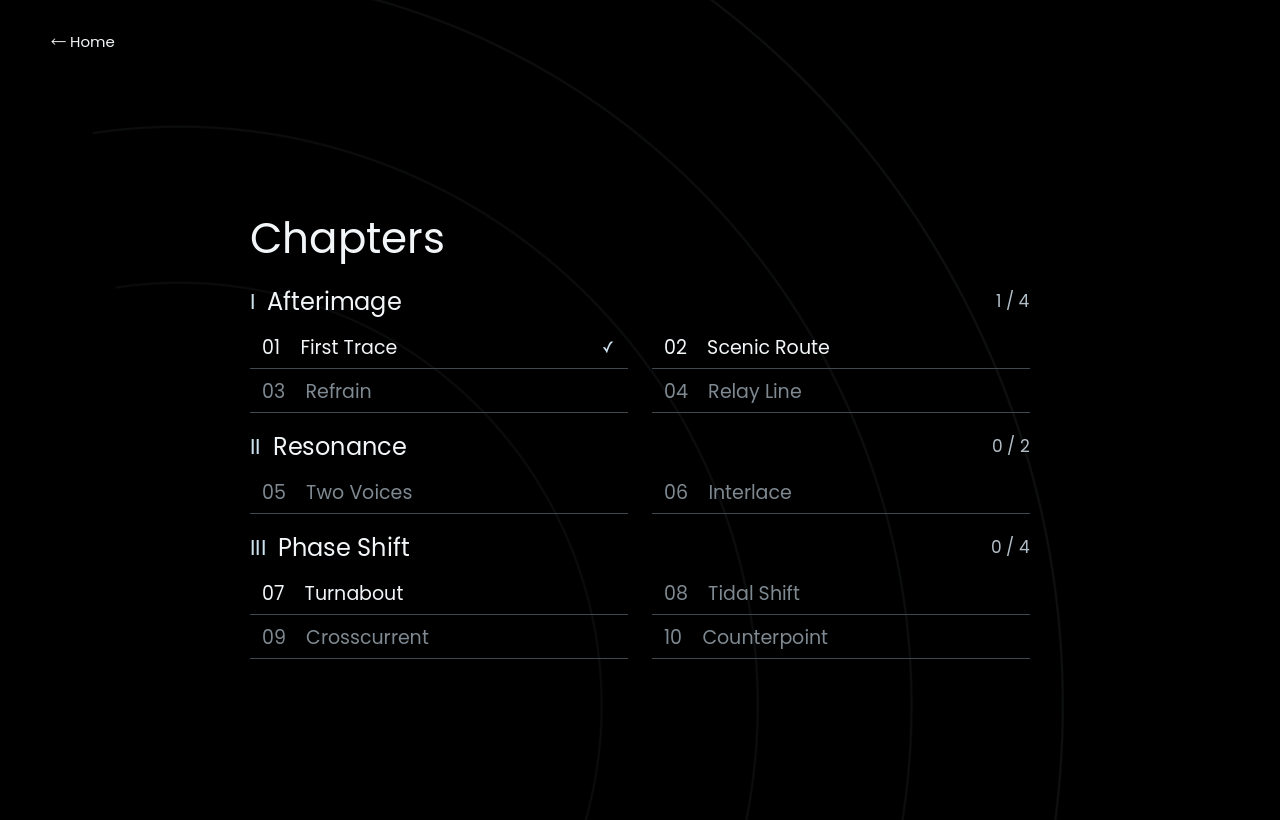
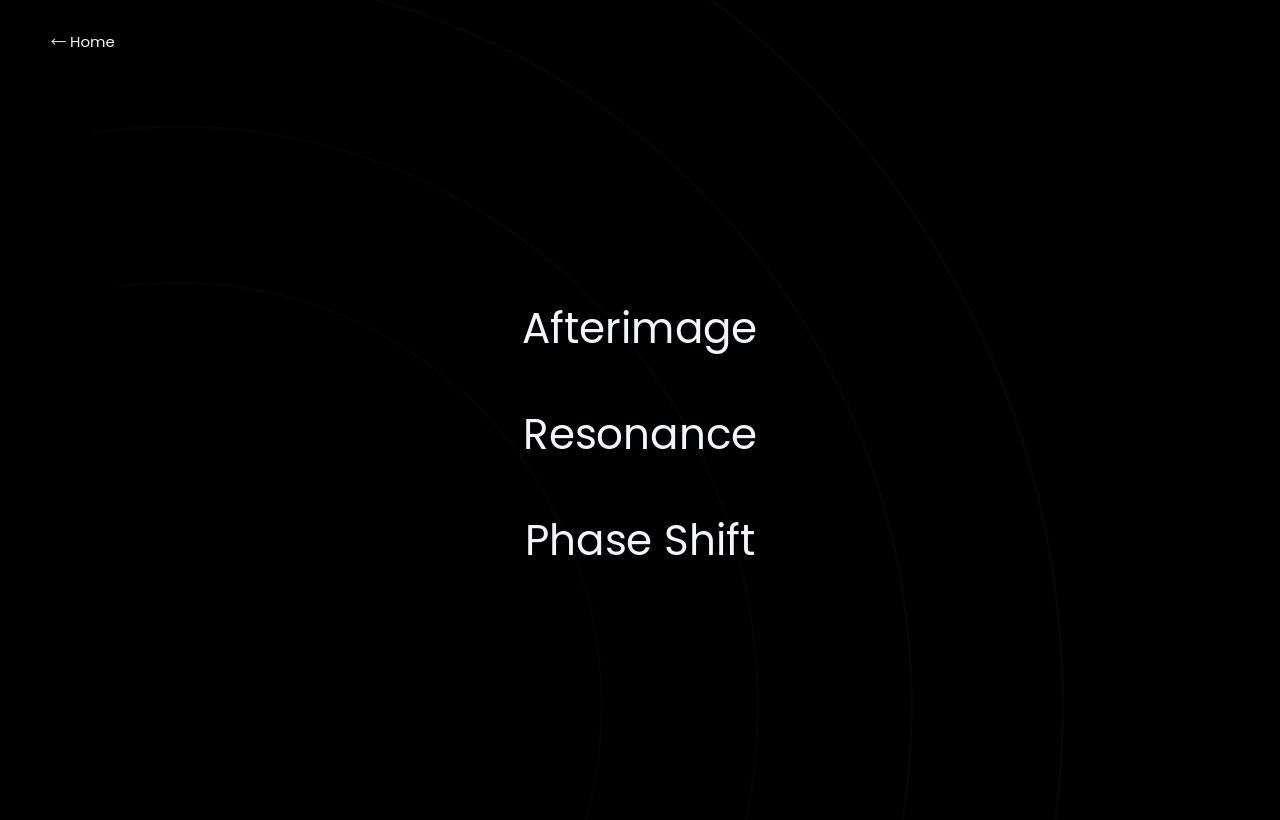
Give each chapter its own room selection page

diff --git a/README.md b/README.md
@@ -2,7 +2,7 @@
 
 一个人，分几次走完同一个房间。你走一格，过去的自己也重走一格。
 
-这是一个独立的 Godot 4.6.2 二维逻辑解谜游戏，十个房间分为 Afterimage、Resonance 和 Phase Shift 三章。在 Chapters 中可直接进入第三章的 07 Turnabout，完成后依次解锁 08 至 10。界面使用英文。
+这是一个独立的 Godot 4.6.2 二维逻辑解谜游戏，十个房间分为 Afterimage、Resonance 和 Phase Shift 三章。在 Chapters 选中章名后会进入该章的选关页，可直接选择第三章的 07 Turnabout，完成后依次解锁 08 至 10。界面使用英文。
 
 ![第一关中，过去的自己踩中压板，当前角色准备穿门](docs/images/room-01.png)
 
